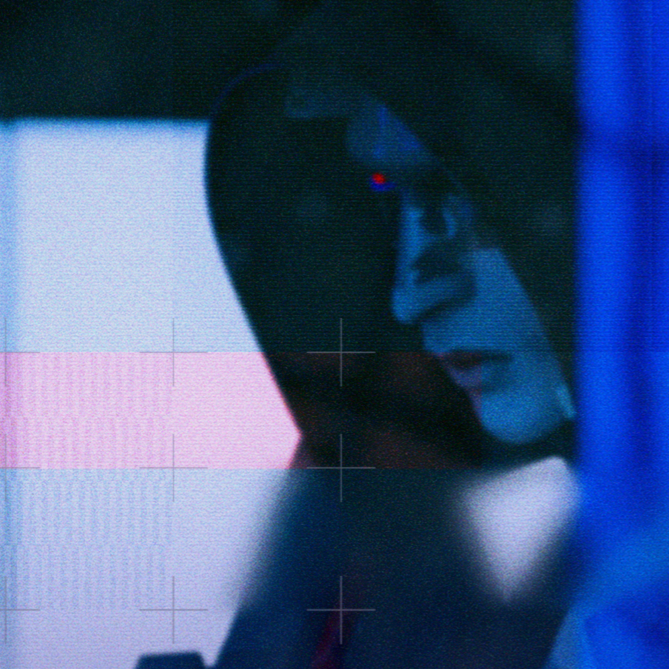
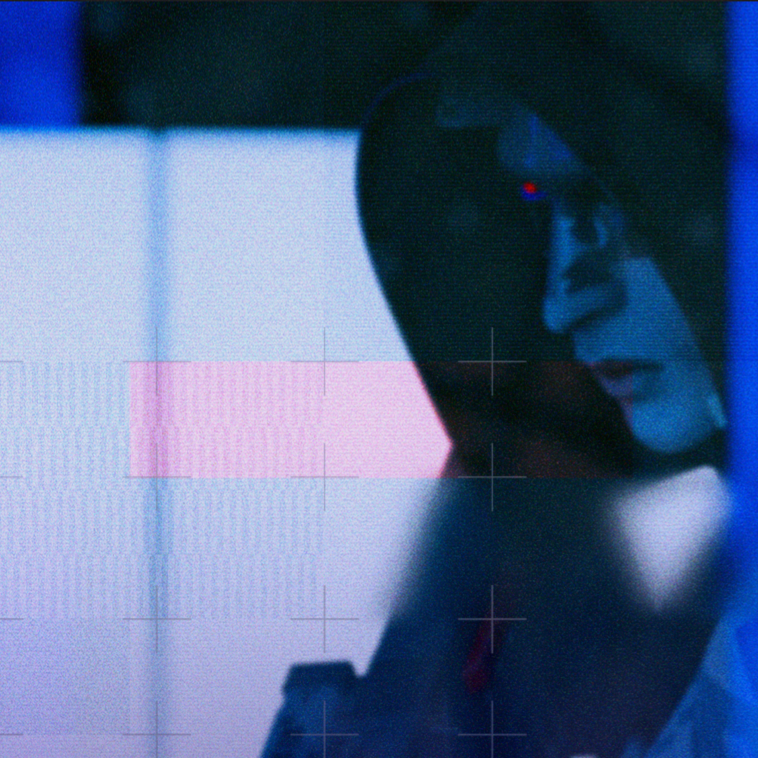
try again

diff --git a/martoninfinity/src/Components/Pages/Shells/ShellDetail.css b/martoninfinity/src/Components/Pages/Shells/ShellDetail.css
@@ -10,6 +10,9 @@
     display: flex;
     align-items: flex-start;
     gap: var(--space-2xl);
+    background: var(--color-darker-bg);
+    padding: 30px;
+    border-radius: 6px;
 }
 
 .shell-detail-sidebar {
